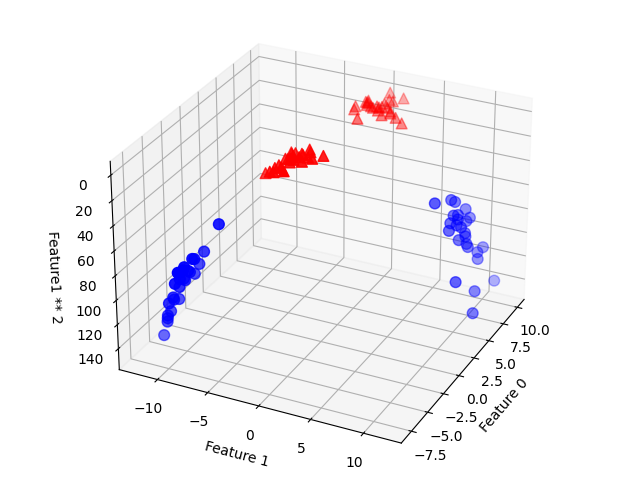
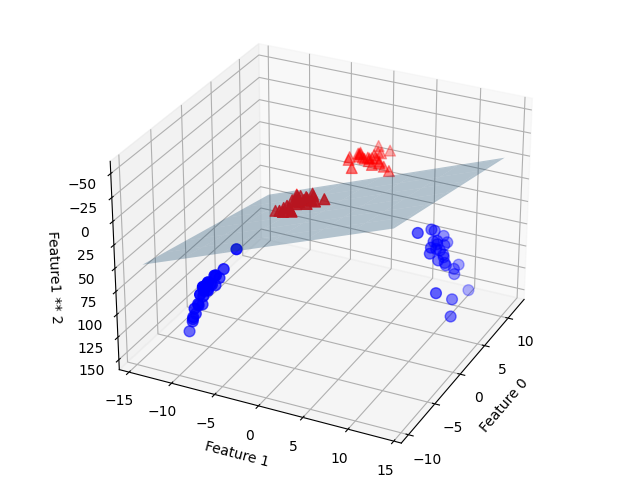
implement linear-model onto 3d datasets

diff --git a/svm/svm.py b/svm/svm.py
@@ -11,11 +11,18 @@ def execute():
     y = y % 2
     X_new = np.hstack([X, X[:, 1:] ** 2])
 
-    linear_svm = LinearSVC().fit(X, y)
+    linear_svm_3d = LinearSVC().fit(X_new, y)
+    coef, intercept = linear_svm_3d.coef_.ravel(), linear_svm_3d.intercept_
 
     fig = plt.figure()
     ax = Axes3D(fig, elev=-152, azim=-26)
+    xx = np.linspace(X_new[:, 0].min() - 2, X_new[:, 0].max() + 2, 50)
+    yy = np.linspace(X_new[:, 1].min() - 2, X_new[:, 1].max() + 2, 50)
+
     mask = y == 0
+    XX, YY = np.meshgrid(xx, yy)
+    ZZ = (coef[0] * XX + coef[1] * YY + intercept) / -coef[2]
+    ax.plot_surface(XX, YY, ZZ, rstride=8, cstride=8, alpha=0.3)
     ax.scatter(X_new[mask, 0], X_new[mask, 1], X_new[mask, 2], c='b', cmap=mglearn.cm2, s=60)
     ax.scatter(X_new[~mask, 0], X_new[~mask, 1], X_new[~mask, 2], c='r', marker='^', cmap=mglearn.cm2, s=60)
     ax.set_xlabel("Feature 0")
